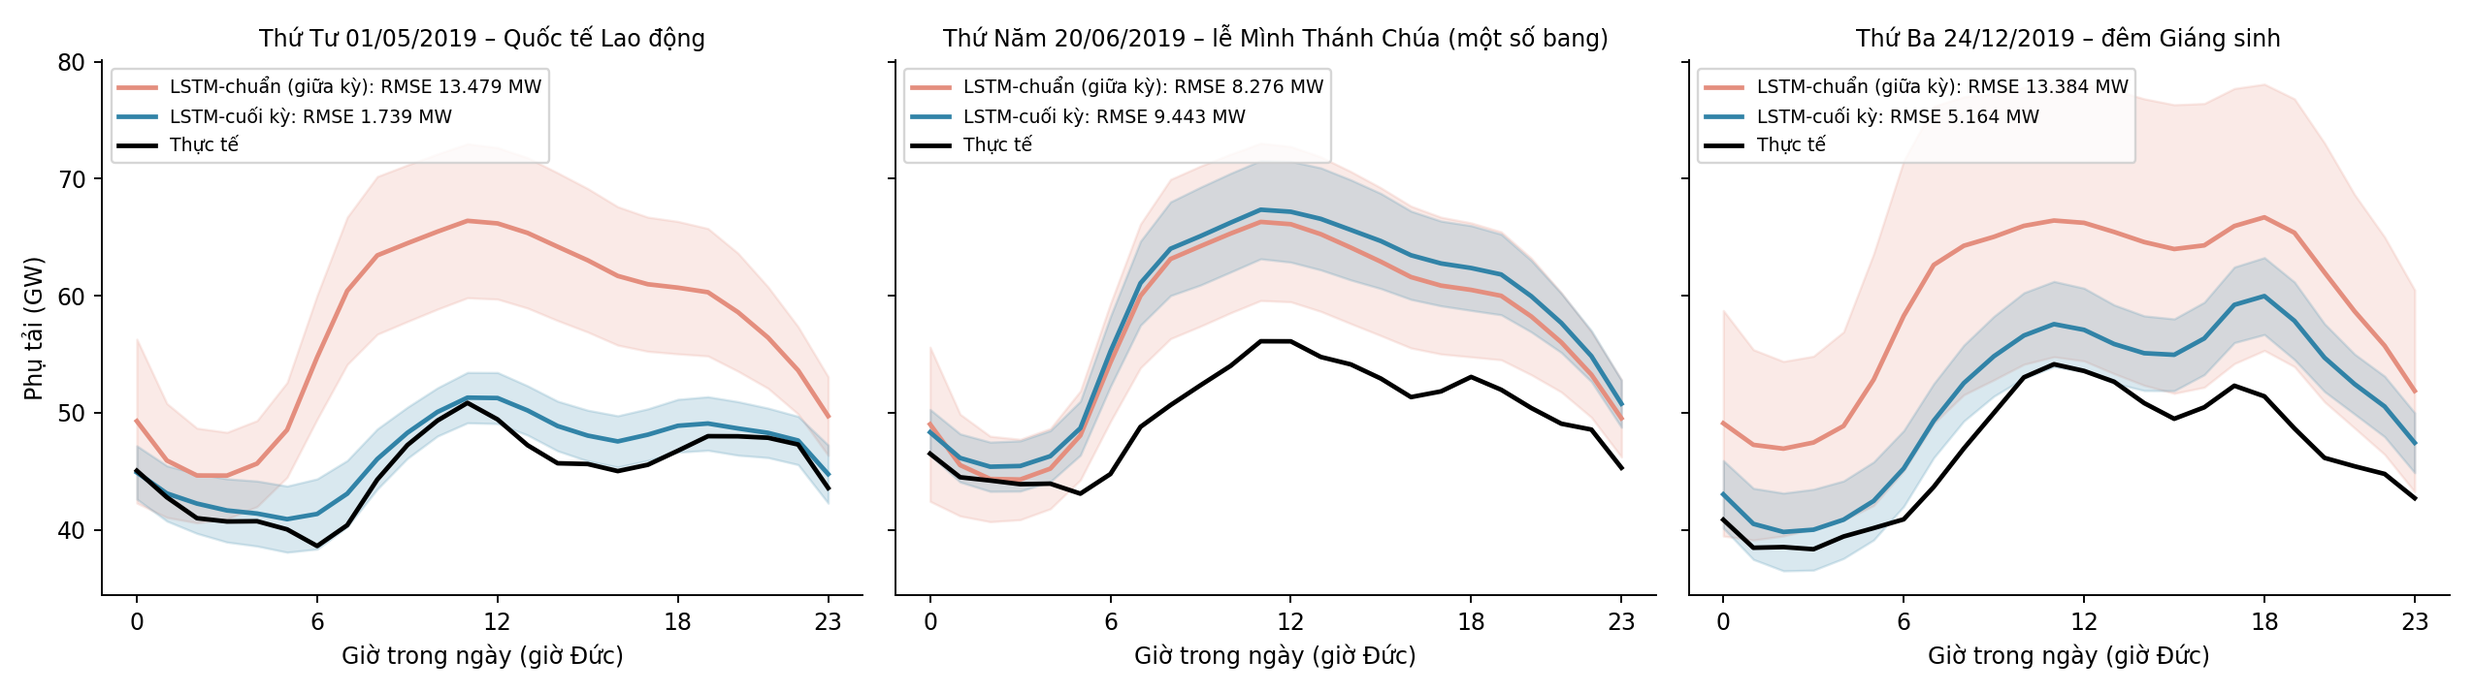
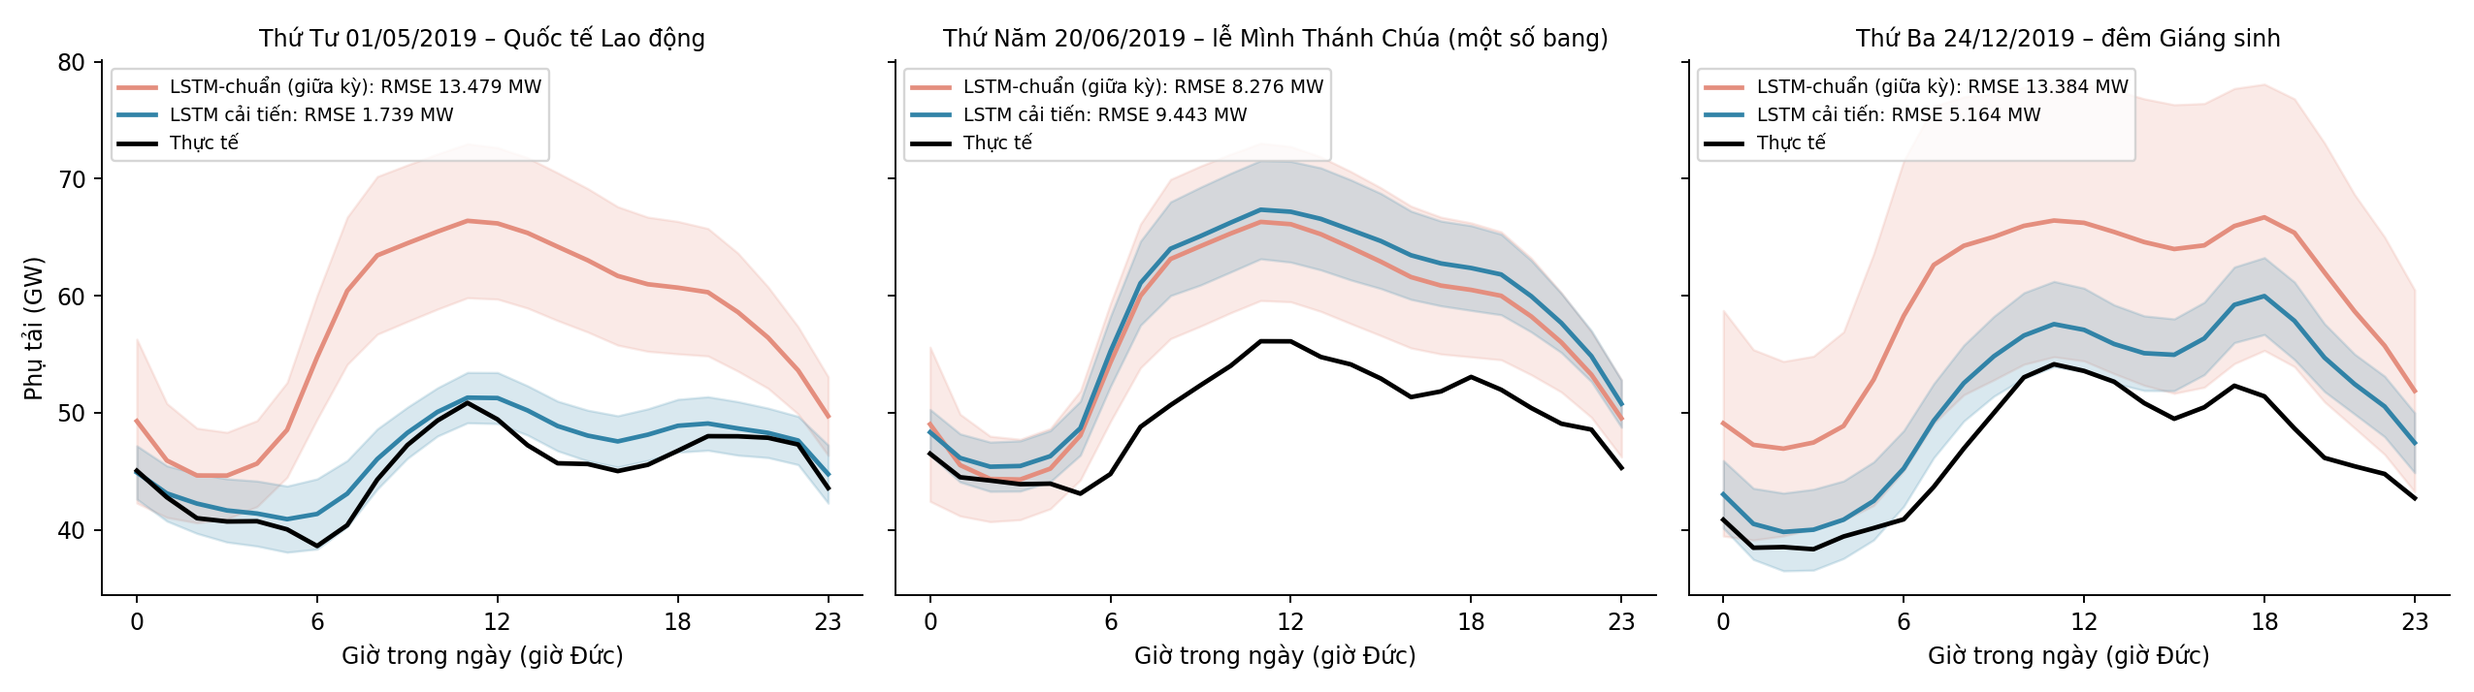
feat: conditional coverage, Newey-West DM tests and rename to LSTM cai tien

Changed region(s): [[0.6816, 0.1541, 0.8675, 0.2465], [0.3718, 0.1541, 0.5267, 0.2465], [0.031, 0.1541, 0.2169, 0.2465]]

diff --git a/demo/static/index.html b/demo/static/index.html
@@ -6,12 +6,12 @@
   <section class="hero"><div><p class="label">PROBABILISTIC LOAD FORECASTING</p><h1>Dự báo tải điện<br><em>và mức độ bất định</em></h1><p>Khám phá cách Encoder Decoder LSTM nhìn 147 giờ quá khứ để dự báo 24 giờ tiếp theo của phụ tải điện Đức, và vì sao mô hình đưa ra dự báo đó.</p></div><div class="ring"><b>95%</b><small>prediction interval<br>đã calibrated</small></div></section>
   <section id="loading" class="loading"><span></span><div><b>Đang nạp checkpoint LSTM</b><p>Lần đầu cần khoảng 10 giây để chuẩn bị toàn bộ test set.</p></div></section>
   <section id="dashboard" class="dashboard hidden">
-    <aside class="card controls"><p class="label">MÔ HÌNH</p><div class="buttons model-switch"><button id="model-final" class="active">Cuối kỳ</button><button id="model-midterm">Giữa kỳ</button></div><small id="model-label" class="model-label">--</small><p class="label">ĐIỀU KHIỂN</p><h2>Chọn thời điểm dự báo</h2><div class="date"><strong id="origin-day">--</strong><small id="origin-time">--</small></div><div class="range-head"><span>Forecast origin</span><b id="origin-number">1 / --</b></div><input id="origin-slider" type="range" min="0" max="0" value="0"><div class="buttons"><button id="previous">← Trước</button><button id="random">Ngẫu nhiên</button><button id="next">Sau →</button></div><label class="toggle"><input id="original-toggle" type="checkbox" checked><i></i>Hiện khoảng gốc</label><div class="cal-note"><p class="label">HỆ SỐ CALIBRATION</p><code id="c-value">c = --</code><small>Giữ nguyên dự báo trung tâm; chỉ thu hẹp độ rộng khoảng.</small></div></aside>
+    <aside class="card controls"><p class="label">MÔ HÌNH</p><div class="buttons model-switch"><button id="model-final" class="active">Cải tiến</button><button id="model-midterm">Giữa kỳ</button></div><small id="model-label" class="model-label">--</small><p class="label">ĐIỀU KHIỂN</p><h2>Chọn thời điểm dự báo</h2><div class="date"><strong id="origin-day">--</strong><small id="origin-time">--</small></div><div class="range-head"><span>Forecast origin</span><b id="origin-number">1 / --</b></div><input id="origin-slider" type="range" min="0" max="0" value="0"><div class="buttons"><button id="previous">← Trước</button><button id="random">Ngẫu nhiên</button><button id="next">Sau →</button></div><label class="toggle"><input id="original-toggle" type="checkbox" checked><i></i>Hiện khoảng gốc</label><div class="cal-note"><p class="label">HỆ SỐ CALIBRATION</p><code id="c-value">c = --</code><small>Giữ nguyên dự báo trung tâm; chỉ thu hẹp độ rộng khoảng.</small></div></aside>
     <section class="visual"><div class="card chart-card"><div class="chart-head"><div><p class="label">FORECAST WINDOW</p><h2>147 giờ lịch sử <em>→</em> 24 giờ dự báo</h2></div><div class="legend"><span><i class="history"></i>Lịch sử</span><span class="legend-original"><i class="original"></i>Khoảng gốc</span><span><i class="calibrated"></i>Calibrated</span><span><i class="actual"></i>Actual</span><span><i class="forecast"></i>LSTM</span></div></div><div class="canvas-wrap"><canvas id="forecast-chart"></canvas></div></div>
       <div class="metrics"><article class="card"><span>RMSE cửa sổ</span><b id="rmse">--</b><small>sai số dự báo điểm</small></article><article class="card"><span>MAE cửa sổ</span><b id="mae">--</b><small>sai số tuyệt đối trung bình</small></article><article class="card accent"><span>PICP gốc → calibrated</span><b id="picp">--</b><small>coverage của 24 giờ</small></article><article class="card accent"><span>Độ rộng khoảng</span><b id="sharpness">--</b><small>hẹp hơn, vẫn bao phủ tốt</small></article></div>
-      <div id="explain-card" class="card explain"><div class="chart-head"><div><p class="label">GIẢI THÍCH DỰ BÁO · INTEGRATED GRADIENTS</p><h2>Vì sao mô hình dự báo như vậy? <span id="holiday-badge" class="badge hidden">Có ngày lễ / Giáng sinh</span></h2></div></div><div class="explain-grid"><div><small class="explain-note">Đóng góp của 72 giờ quá khứ gần nhất vào mức dự báo trung bình (MW). Đỏ: kéo dự báo lên · Xanh: kéo xuống.</small><canvas id="heatmap"></canvas></div><div><small class="explain-note">Đóng góp theo nhóm đầu vào (MW, so với một cửa sổ trung bình của năm 2019)</small><ul id="contributions"></ul></div></div><small id="explain-off" class="explain-note hidden">Phần giải thích chỉ có cho mô hình cuối kỳ.</small></div>
+      <div id="explain-card" class="card explain"><div class="chart-head"><div><p class="label">GIẢI THÍCH DỰ BÁO · INTEGRATED GRADIENTS</p><h2>Vì sao mô hình dự báo như vậy? <span id="holiday-badge" class="badge hidden">Có ngày lễ / Giáng sinh</span></h2></div></div><div class="explain-grid"><div><small class="explain-note">Đóng góp của 72 giờ quá khứ gần nhất vào mức dự báo trung bình (MW). Đỏ: kéo dự báo lên · Xanh: kéo xuống.</small><canvas id="heatmap"></canvas></div><div><small class="explain-note">Đóng góp theo nhóm đầu vào (MW, so với một cửa sổ trung bình của năm 2019)</small><ul id="contributions"></ul></div></div><small id="explain-off" class="explain-note hidden">Phần giải thích chỉ có cho LSTM cải tiến.</small></div>
     </section>
   </section>
-  <section id="summary" class="card summary hidden"><p class="label">ĐÁNH GIÁ TOÀN BỘ TEST SET</p><h2>Giữa kỳ và cuối kỳ trên năm 2019</h2><div class="table-wrap"><table><thead><tr><th>Phiên bản</th><th>Hệ số c</th><th>PICP</th><th>Độ rộng</th><th>RMSE</th><th>MAE</th></tr></thead><tbody id="summary-body"></tbody></table></div><p class="takeaway">Cuối kỳ: chuẩn hóa phụ tải Áo, thêm ngày lễ và lấy trung bình 5 seed giúp RMSE giảm từ khoảng <b>3.300</b> xuống <b>1.571 MW</b>; hiệu chỉnh giữ PICP sát <b>95%</b> với khoảng hẹp hơn nhiều.</p></section>
+  <section id="summary" class="card summary hidden"><p class="label">ĐÁNH GIÁ TOÀN BỘ TEST SET</p><h2>LSTM-gốc (giữa kỳ) và LSTM cải tiến trên năm 2019</h2><div class="table-wrap"><table><thead><tr><th>Phiên bản</th><th>Hệ số c</th><th>PICP</th><th>Độ rộng</th><th>RMSE</th><th>MAE</th></tr></thead><tbody id="summary-body"></tbody></table></div><p class="takeaway">LSTM cải tiến: chuẩn hóa phụ tải Áo, thêm ngày lễ và gộp 5 seed giúp RMSE giảm từ khoảng <b>3.300</b> xuống <b>1.571 MW</b>; hiệu chỉnh giữ PICP sát <b>95%</b> với khoảng hẹp hơn nhiều.</p></section>
   <footer>Local demo · ProLoaF giữa kỳ và cuối kỳ · Test set OPSD 2019</footer>
 </main><script src="/app.js"></script></body></html>

diff --git a/demo/static/app.js b/demo/static/app.js
@@ -16,7 +16,7 @@ async function waitForModel() {
     if (!status.ready) { if (status.error) throw new Error(status.error); setTimeout(waitForModel, 900); return; }
     state.meta = status; $("#dot").parentElement.classList.add("ready"); $("#status-text").textContent = "Checkpoint sẵn sàng";
     $("#loading").classList.add("hidden"); $("#dashboard").classList.remove("hidden"); $("#summary").classList.remove("hidden");
-    const slider = $("#origin-slider"); slider.max = status.origins - 1; slider.value = Math.min(1000, status.origins - 1);
+    const slider = $("#origin-slider"); slider.max = status.origins - 1; const asked = Number(new URLSearchParams(location.search).get("origin")); slider.value = Number.isInteger(asked) && asked > 0 ? Math.min(asked, status.origins - 1) : Math.min(1000, status.origins - 1);
     $("#c-value").textContent = `c = ${status.models.final.c.toFixed(4)}`;
     await loadSummary(); await loadForecast(Number(slider.value));
   } catch (error) {

diff --git a/reproduction/final/extra_checks.py b/reproduction/final/extra_checks.py
@@ -1,0 +1,104 @@
+"""Extra robustness checks for the final report, from saved predictions only (no training).
+
+1. Conditional coverage of the calibrated 95% interval on C (2019): by season, day type and
+   forecast-hour block, for the three LSTM variants (ensemble + global c chosen on B).
+2. Diebold-Mariano tests with a Newey-West (HAC) variance on the daily loss differences,
+   next to the plain paired t-test used in evaluate_improvements.py.
+
+Output: artifacts/final_exam/results/coverage_breakdown.csv, dm_robust.json
+"""
+import json
+import sys
+from pathlib import Path
+
+import numpy as np
+import pandas as pd
+from scipy import stats
+
+ROOT = Path(__file__).resolve().parents[2]
+sys.path.insert(0, str(Path(__file__).resolve().parent))
+from run_lstm_variant import add_calendar_flags  # noqa: E402
+
+OUT = ROOT / 'artifacts/final_exam/results'
+SCALE, Z, SEEDS = 46242.0, 1.959963984540054, [1, 2, 3, 4, 5]
+HAC_LAGS = 7
+
+
+def groups():
+    frame = pd.read_csv(ROOT / 'paper_source/data/opsd.csv', sep=';', index_col=0, parse_dates=True)
+    flags = add_calendar_flags(frame[[]])
+    test = flags.iloc[int(len(flags) * 0.8):]
+    idx = np.arange(8595)[:, None] + 147 + np.arange(24)[None, :]
+    local = test.index.tz_localize('UTC').tz_convert('Europe/Berlin')
+    month, dow = local.month.to_numpy()[idx], local.dayofweek.to_numpy()[idx]
+    hol = test['is_holiday'].to_numpy()[idx] > 0
+    xmas = (test['is_xmas'].to_numpy()[idx] > 0) & ~hol
+    horizon = np.broadcast_to(np.arange(1, 25), idx.shape)
+    special = hol | xmas
+    return {
+        'Cả năm': np.ones(idx.shape, bool),
+        'Mùa đông (12, 1, 2)': np.isin(month, [12, 1, 2]),
+        'Mùa xuân (3-5)': np.isin(month, [3, 4, 5]),
+        'Mùa hè (6-8)': np.isin(month, [6, 7, 8]),
+        'Mùa thu (9-11)': np.isin(month, [9, 10, 11]),
+        'Ngày làm việc (không lễ)': (dow < 5) & ~special,
+        'Cuối tuần (không lễ)': (dow >= 5) & ~special,
+        'Ngày lễ toàn quốc': hol,
+        'Giáng sinh - năm mới (không lễ)': xmas,
+        'Giờ dự báo 1-6': horizon <= 6,
+        'Giờ dự báo 7-12': (horizon > 6) & (horizon <= 12),
+        'Giờ dự báo 13-24': horizon > 12,
+    }
+
+
+def dm(err_a, err_b, lags=HAC_LAGS):
+    d = (err_a[::24] ** 2).mean(axis=1) - (err_b[::24] ** 2).mean(axis=1)
+    n, mean = len(d), d.mean()
+    plain = mean / (d.std(ddof=1) / np.sqrt(n))
+    e = d - mean
+    var = (e @ e) / n
+    for k in range(1, lags + 1):
+        var += 2 * (1 - k / (lags + 1)) * (e[k:] @ e[:-k]) / n
+    hac = mean / np.sqrt(var / n)
+    return {'days': int(n), 't_plain': float(plain), 'p_plain': float(2 * stats.t.sf(abs(plain), n - 1)),
+            't_hac': float(hac), 'p_hac': float(2 * stats.norm.sf(abs(hac))), 'hac_lags_days': lags}
+
+
+def main():
+    tests = json.loads((OUT / 'tests.json').read_text(encoding='utf-8'))
+    masks = groups()
+    preds = {v: np.load(OUT / f'{v}_ensemble_test.npz') for v in ['baseline', 'at', 'at_hol']}
+    y = preds['at_hol']['actual_scaled']
+    rows = []
+    for name, mask in masks.items():
+        row = {'group': name, 'share_percent': float(mask.mean() * 100)}
+        for v, p in preds.items():
+            c = tests[v]['c_global_from_B']
+            half = Z * c * p['sigma_scaled']
+            inside = np.abs(y - p['mean_scaled']) <= half
+            row[f'{v}_PICP'] = float(inside[mask].mean() * 100)
+            row[f'{v}_width_MW'] = float((2 * half)[mask].mean() * SCALE)
+            row[f'{v}_MAE_MW'] = float(np.abs(y - p['mean_scaled'])[mask].mean() * SCALE)
+        rows.append(row)
+    table = pd.DataFrame(rows)
+    table.to_csv(OUT / 'coverage_breakdown.csv', index=False)
+    pd.set_option('display.width', 250)
+    print(table.round(2).to_string(index=False))
+
+    pr = ROOT / 'artifacts/paper_reproduction'
+    dl = np.mean([np.load(pr / ('dlinear_opsd_20261015' if s <= 3 else 'dlinear_opsd_seed45') / f'test_predictions_seed{s}.npz')['mean_scaled']
+                  for s in SEEDS], axis=0)
+    dlc = np.mean([np.load(ROOT / f'artifacts/final_exam/dlinear_calendar/test_predictions_seed{s}.npz')['mean_scaled']
+                   for s in SEEDS], axis=0)
+    m = {v: p['mean_scaled'] for v, p in preds.items()}
+    pairs = {'at vs baseline (C1)': (m['at'], m['baseline']), 'at_hol vs at (C2)': (m['at_hol'], m['at']),
+             'at_hol vs baseline': (m['at_hol'], m['baseline']), 'at_hol vs DLinear': (m['at_hol'], dl),
+             'at_hol vs DLinear+calendar': (m['at_hol'], dlc), 'baseline vs DLinear': (m['baseline'], dl)}
+    robust = {k: dm(y - a, y - b) for k, (a, b) in pairs.items()}
+    (OUT / 'dm_robust.json').write_text(json.dumps(robust, indent=2), encoding='utf-8')
+    for k, v in robust.items():
+        print(f"{k:28s} plain t={v['t_plain']:7.2f} p={v['p_plain']:.2e} | HAC t={v['t_hac']:7.2f} p={v['p_hac']:.2e}")
+
+
+if __name__ == '__main__':
+    main()

diff --git a/demo/server.py b/demo/server.py
@@ -110,14 +110,14 @@ class ForecastStore:
         rows = summary[summary["variant"] == "at_hol"].set_index("model")
         c = float(tests["at_hol"]["c_global_from_B"])
         self.models["final"] = {
-            "label": "LSTM-cuối kỳ (ensemble 5 seed)",
+            "label": "LSTM cải tiến (ensemble 5 seed)",
             "actual": saved["actual_scaled"] * load_range + load_min,
             "mean": saved["mean_scaled"] * load_range + load_min,
             "sigma": saved["sigma_scaled"] * load_range, "c": c,
             "summary": [{"name": name, "c": cc, "picp": float(rows.loc[key, "PICP_percent"]), "width": float(rows.loc[key, "Width_MW"]),
                          "rmse": float(rows.loc[key, "RMSE_MW"]), "mae": float(rows.loc[key, "MAE_MW"])}
-                        for name, key, cc in [("LSTM-cuối kỳ, khoảng gốc", "ensemble raw", 1.0),
-                                              ("LSTM-cuối kỳ, đã hiệu chỉnh", "ensemble + global c", c)]],
+                        for name, key, cc in [("LSTM cải tiến, khoảng gốc", "ensemble raw", 1.0),
+                                              ("LSTM cải tiến, đã hiệu chỉnh", "ensemble + global c", c)]],
         }
         assert np.allclose(self.models["final"]["actual"], self.models["midterm"]["actual"], atol=0.05)
         config = json.loads(FINAL_CONFIG.read_text(encoding="utf-8"))

diff --git a/reproduction/final/plot_report_figures.py b/reproduction/final/plot_report_figures.py
@@ -26,7 +26,7 @@ def main():
     frame = pd.read_csv(ROOT / 'paper_source/data/opsd.csv', sep=';', index_col=0, parse_dates=True, usecols=[0])
     test_index = frame.index[int(len(frame) * 0.8):]
     berlin = test_index[np.arange(8595) + 147].tz_localize('UTC').tz_convert('Europe/Berlin')
-    runs = {'LSTM-chuẩn (giữa kỳ)': ('baseline', '#E48E7E'), 'LSTM-cuối kỳ': ('at_hol', '#3183A7')}
+    runs = {'LSTM-chuẩn (giữa kỳ)': ('baseline', '#E48E7E'), 'LSTM cải tiến': ('at_hol', '#3183A7')}
     days = [('Thứ Tư 01/05/2019 – Quốc tế Lao động', 5, 1), ('Thứ Năm 20/06/2019 – lễ Mình Thánh Chúa (một số bang)', 6, 20),
             ('Thứ Ba 24/12/2019 – đêm Giáng sinh', 12, 24)]
     fig, axes = plt.subplots(1, 3, figsize=(15, 4.2), sharey=True)
@@ -55,7 +55,7 @@ def main():
 
     fig, ax = plt.subplots(figsize=(10, 3.6))
     for path, label, color in [(FE / 'xai/integrated_gradients_by_lag.csv', 'LSTM-chuẩn (giữa kỳ)', '#E48E7E'),
-                               (FE / 'xai/at_hol/integrated_gradients_by_lag.csv', 'LSTM-cuối kỳ', '#3183A7')]:
+                               (FE / 'xai/at_hol/integrated_gradients_by_lag.csv', 'LSTM cải tiến', '#3183A7')]:
         lag = pd.read_csv(path, index_col=0)
         ax.plot(lag.index, lag['DE load'], color=color, lw=2, label=label)
     ax.axvline(-24, color='gray', ls=':', lw=1)

diff --git a/reproduction/final/plot_horizon_figure.py b/reproduction/final/plot_horizon_figure.py
@@ -37,7 +37,7 @@ def main():
     ax.plot(h, rmse_by_hour(*ens(dl_files)), '--', color='#9AA5B1', lw=2, label='DLinear')
     ax.plot(h, rmse_by_hour(*ens(dlc_files)), ':', color='#6B7785', lw=2.4, label='DLinear + lịch, ngày lễ')
     styles = {'baseline': ('LSTM-chuẩn (giữa kỳ)', '#E48E7E'), 'at': ('+ chuẩn hóa phụ tải Áo', '#8CC5DC'),
-              'at_hol': ('+ cờ ngày lễ = LSTM-cuối kỳ', '#1F6F94')}
+              'at_hol': ('+ cờ ngày lễ = LSTM cải tiến', '#1F6F94')}
     for v, (label, color) in styles.items():
         ax.plot(h, hz[hz.variant == v].RMSE_MW.to_numpy(), '-o', ms=4, color=color, lw=2.4, label=label)
     ax.set_xticks(h)

diff --git a/artifacts/final_exam/KET_QUA_CUOI_KY.md b/artifacts/final_exam/KET_QUA_CUOI_KY.md
@@ -32,7 +32,7 @@ Kết luận: (a) phụ tải Áo **chưa chuẩn hóa** lấn át đầu vào c
 | Biến thể | Thay đổi |
 |---|---|
 | `at` | Thêm phụ tải Áo vào nhóm được chuẩn hóa min-max (fit trên A) |
-| `at_hol` | Như `at`, thêm `is_holiday` (ngày lễ toàn quốc Đức) và `is_xmas` (24/12–01/01) cho decoder. Cả hai là thông tin lịch, biết trước. |
+| `at_hol` (sau ensemble và hiệu chỉnh gọi là **LSTM cải tiến**) | Như `at`, thêm `is_holiday` (ngày lễ toàn quốc Đức) và `is_xmas` (24/12–01/01) cho decoder. Cả hai là thông tin lịch, biết trước. |
 | Ensemble 5 seed | μ = trung bình các μ; σ tính từ hỗn hợp Gaussian của 5 seed |
 | Hiệu chỉnh trên B | c = phân vị 95% (split conformal) của \|y−μ\|/(1.96σ) trên tập B |
 
@@ -62,6 +62,21 @@ Hiệu chỉnh c riêng cho từng giờ cho kết quả gần như bằng c chu
 | LSTM-chuẩn ensemble với DLinear ensemble | DM | 0.003 |
 | `at_hol` ensemble với DLinear + lịch ensemble | DM | 3.8e-26 |
 
+### Kiểm tra bổ sung (`python reproduction/final/extra_checks.py`)
+Kiểm định DM với phương sai Newey–West (7 ngày trễ) cho cùng kết luận: C1 p = 0.001, C2 p = 0.008, `at_hol` với LSTM-chuẩn p = 1.6e-4, với DLinear p = 6e-15, với DLinear + lịch p = 5e-17; LSTM-chuẩn ensemble với DLinear ensemble p = 0.028.
+
+Độ phủ của khoảng 95% đã hiệu chỉnh, theo nhóm giờ trên C (`results/coverage_breakdown.csv`):
+
+| Nhóm giờ | Tỷ trọng | LSTM-chuẩn | `at` | `at_hol` |
+|---|---|---|---|---|
+| Cả năm | 100% | 95.5% | 95.8% | 95.2% |
+| Mùa đông / xuân / hè / thu | ~25% mỗi mùa | 94.9 / 94.4 / 96.7 / 95.9% | 95.0 / 95.4 / 96.5 / 96.2% | 92.7 / 96.2 / 96.1 / 95.7% |
+| Ngày làm việc / cuối tuần (không lễ) | 68% / 28% | 97.9 / 96.8% | 97.4 / 95.9% | 96.0 / 94.4% |
+| Ngày lễ toàn quốc | 2.2% | 17.2% | 50.0% | 92.3% |
+| Giáng sinh – năm mới (không lễ) | 1.6% | 74.9% | 89.7% | 80.2% |
+
+Hệ số c chỉ bảo đảm độ phủ tính chung. Cờ ngày lễ đưa độ phủ ngày lễ từ 17% lên 92%, nhưng mùa đông (92.7%) và giai đoạn Giáng sinh (80.2%) còn thấp hơn 95%.
+
 ## 5. XAI sau khi cải thiện: mô hình đã "nhìn" đúng chỗ
 | | LSTM-chuẩn | `at` | `at_hol` |
 |---|---|---|---|
@@ -79,6 +94,7 @@ python reproduction/final/evaluate_improvements.py         # bảng mục 4 và 
 python reproduction/final/xai_analysis.py                  # XAI cho LSTM-chuẩn  -> xai/
 python reproduction/final/xai_analysis.py at_hol           # XAI cho bản tốt nhất -> xai/at_hol/
 python reproduction/final/run_dlinear_calendar.py          # DLinear thêm cột lịch -> dlinear_calendar/
+python reproduction/final/extra_checks.py                  # độ phủ theo nhóm giờ, DM Newey-West
 python demo/run_demo.py                                    # demo có chọn mô hình và giải thích IG
 ```
 Huấn luyện lại các biến thể (khoảng 3–4 giờ trên CPU): `bash reproduction/final/run_all_variants.sh <python>`.
@@ -87,5 +103,5 @@ Huấn luyện lại các biến thể (khoảng 3–4 giờ trên CPU): `bash r
 |---|---|
 | `runs/{at,at_hol}_seed*/` | Mô hình, log theo từng epoch, dự báo trên B và C |
 | `runs/baseline_seed*/` | Dự báo trên B và C của LSTM-chuẩn (giữa kỳ) |
-| `results/` | `summary.csv`, `per_horizon.csv`, `tests.json` |
+| `results/` | `summary.csv`, `per_horizon.csv`, `tests.json`, `coverage_breakdown.csv`, `dm_robust.json` |
 | `xai/`, `xai/at/`, `xai/at_hol/` | Hình và bảng XAI cho từng mô hình |

diff --git a/README.md b/README.md
@@ -42,18 +42,19 @@ Cách đọc bảng:
 
 | Năm 2019 | RMSE (MW) | PICP | Độ rộng khoảng (MW) | MAE ngày lễ (MW) |
 |---|---:|---:|---:|---:|
-| LSTM giữa kỳ, ensemble + hiệu chỉnh | 3.375 | 95,5% | 10.971 | 12.593 |
-| **LSTM cuối kỳ, ensemble + hiệu chỉnh** | **1.571** | **95,2%** | **5.930** | **1.302** |
+| LSTM-chuẩn (giữa kỳ), ensemble + hiệu chỉnh | 3.375 | 95,5% | 10.971 | 12.593 |
+| **LSTM cải tiến, ensemble + hiệu chỉnh** | **1.571** | **95,2%** | **5.930** | **1.302** |
 | DLinear, ensemble | 3.514 | – | – | – |
 | DLinear + cùng cột lịch, ngày lễ, ensemble | 2.542 | – | – | 4.192 |
 
-Sau khi sửa, XAI cho thấy mô hình đã dùng phụ tải Đức của những giờ gần nhất và cùng giờ hôm trước. Mọi chênh lệch đều có ý nghĩa thống kê (Diebold–Mariano trên 359 ngày, p < 0,005). Demo (`python .\demo\run_demo.py`) cho chọn mô hình giữa kỳ hoặc cuối kỳ và hiển thị giải thích Integrated Gradients cho từng dự báo. Chi tiết ở `artifacts/final_exam/KET_QUA_CUOI_KY.md`.
+Sau khi sửa, XAI cho thấy mô hình đã dùng phụ tải Đức của những giờ gần nhất và cùng giờ hôm trước. Mọi cải tiến đều có ý nghĩa thống kê (Diebold–Mariano trên 359 ngày, p < 0,005; với phương sai Newey–West, p < 0,01). Demo (`python .\demo\run_demo.py`) cho chọn LSTM-gốc của giữa kỳ hoặc LSTM cải tiến và hiển thị giải thích Integrated Gradients cho từng dự báo; thêm `?origin=8425` vào địa chỉ để mở thẳng một thời điểm. Chi tiết ở `artifacts/final_exam/KET_QUA_CUOI_KY.md`.
 
 ```powershell
 python .\reproduction\final\diagnose_on_validation.py   # chẩn đoán trên 2018
 python .\reproduction\final\evaluate_improvements.py    # bảng kết quả và kiểm định
 python .\reproduction\final\xai_analysis.py at_hol      # XAI cho mô hình cuối kỳ
 python .\reproduction\final\run_dlinear_calendar.py     # DLinear thêm cột lịch (khoảng 2 phút)
+python .\reproduction\final\extra_checks.py            # độ phủ theo mùa, loại ngày; DM với Newey–West
 bash reproduction/final/run_all_variants.sh <python>    # huấn luyện lại (khoảng 3–4 giờ)
 ```
 
